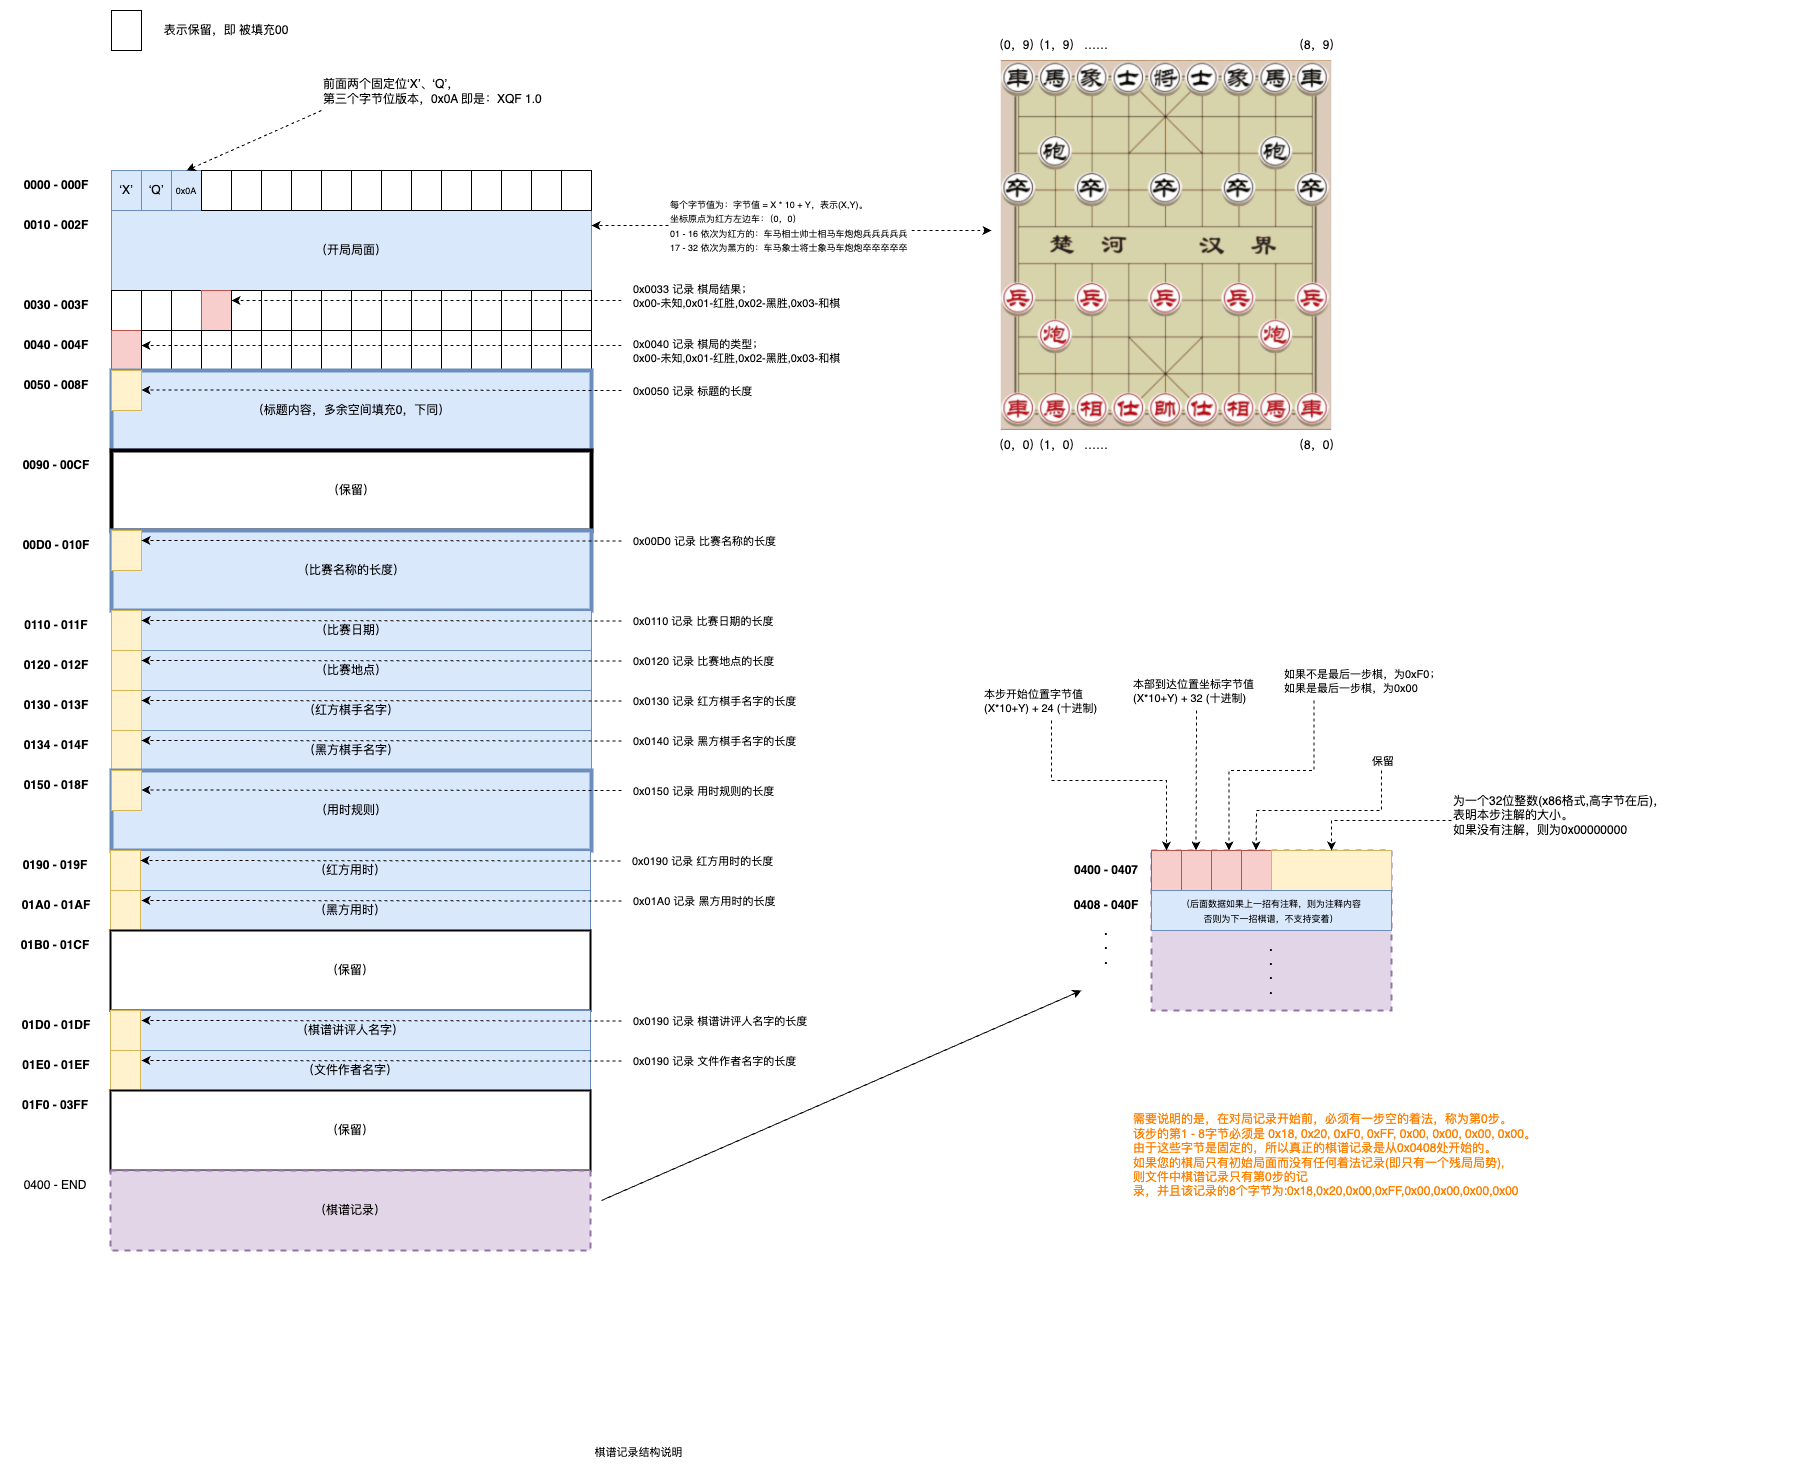
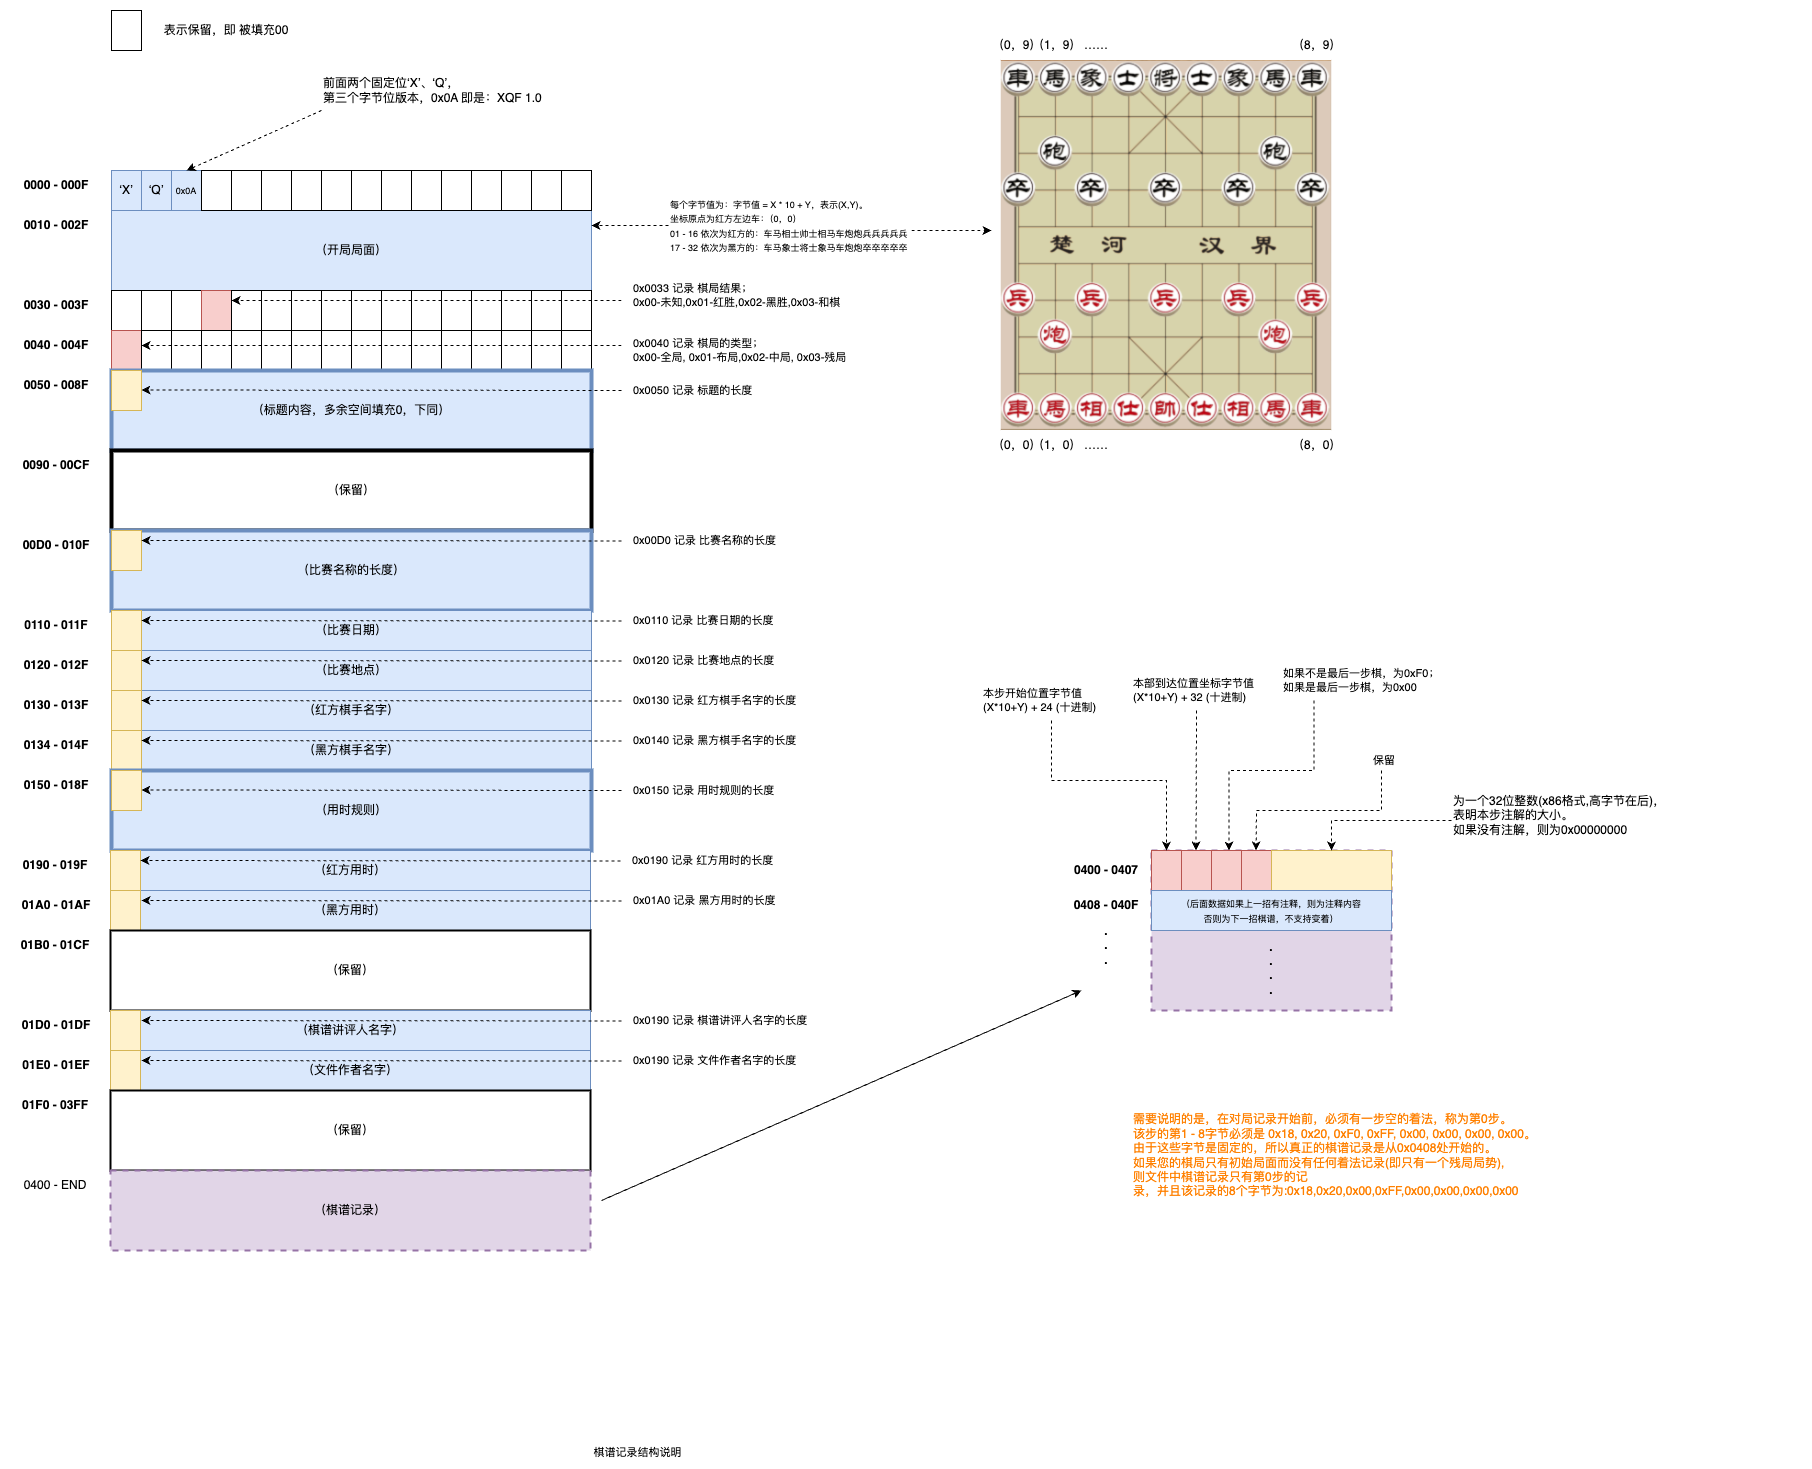
解析XQF

diff --git a/parser.py b/parser.py
@@ -1,0 +1,103 @@
+#-*- coding: UTF-8 -*-
+
+from data import *
+
+class Parser():
+    def __init__(self):
+        self.file = None
+
+class DPparser(Parser):
+    def __init__(self):
+        pass
+
+# 东萍棋谱读取器
+class DPReader(DPparser):
+    def __init__(self):
+        pass
+
+    def read(self, file_path, qipu):
+        self.file = open(file_path, 'rb')
+
+# 东萍棋谱写
+class DPWriter(DPparser):
+    def __init__(self):
+        pass
+
+    def write(self, file_path, qipu):
+        pass
+
+class XQFParser(Parser):
+    def __init__(self):
+        pass
+
+# XQF棋谱读取器
+class XQFReader(XQFParser):
+    def __init__(self):
+        pass
+
+    def read(self, file_path, qipu):
+        self.file = open(file_path, 'rb')
+
+        # 读取标记
+        self._readFlag()
+        # 版本
+        self._readVersion()
+        # 结果
+        self._readResult(qipu)
+        # 类型
+        self._readType(qipu)
+
+    def _readFlag(self):
+        # 标记 在0开始，
+        self.file.seek(0)
+
+        flag = self.file.read(2).decode('utf-8')  # 读取2个字节
+        print("flag:" + flag)
+        assert(flag == "XQ")
+
+    def _readVersion(self):
+        self.file.seek(2)
+        version = self.file.read(1)[0]
+
+        print("version:", version)
+
+        # 确保版本号是1.x，高版本不支持解析
+        assert((version - version % 10) == 10)
+
+    def _readResult(self, qipu):
+        self.file.seek(0x33)
+        result = self.file.read(1)[0]
+        addr = [RESULT_UNKNOWN, RESULT_WIN_RED, RESULT_WIN_BLACK, RESULT_PEACE]
+        qipu.result = addr[result]
+
+    def _readType(self, qipu):
+        self.file.seek(0x40)
+        _type = self.file.read(1)[0]
+        addr = [TYPE_FULL, TYPE_START, TYPE_MIDDLE, TYPE_END]
+        qipu.type = addr[_type]
+
+# XQF棋谱写
+class XQFWriter(XQFParser):
+    def __init__(self):
+        pass
+
+    def write(self, file_path, qipu):
+        pass
+
+def reader_from_path(file_path):
+    file_path = file_path.lower()
+    if file_path.endswith(".xqf"):
+        return XQFReader()
+    elif file_path.endswith(".ubb"):
+        return DPReader()
+
+    return None
+
+def writer_from_path(file_path):
+    file_path = file_path.lower()
+    if file_path.endswith(".xqf"):
+        return XQFWriter()
+    elif file_path.endswith(".ubb"):
+        return DPWriter()
+
+    return None

diff --git a/data.py b/data.py
@@ -1,0 +1,55 @@
+#-*- coding: UTF-8 -*-
+
+
+TYPE_FULL   = 0 # 全局
+TYPE_START  = 1 # 布局
+TYPE_MIDDLE = 2 # 中局
+TYPE_END    = 3 # 残局
+
+RESULT_UNKNOWN   = 0 # 未知
+RESULT_WIN_RED   = 1 # 红胜
+RESULT_WIN_BLACK = 2 # 黑胜
+RESULT_PEACE     = 3 # 和棋
+
+
+class QIPU():
+    def __init__(self):
+        # 记谱时间
+        self.adddate = ""
+        self.title = ""
+        self.type = TYPE_FULL
+        self.result = RESULT_UNKNOWN
+        self.timerule = ""   # 用时规则
+        self.redTime = ""    # 红方用时
+        self.blackTime = ""  # 红方用时
+        self.redName = ""    # 红方名字
+        self.blackName = ""  # 黑方名字
+
+        self.squares = []    # 16 x 16
+        self.comment = ""
+
+        self.move = None
+
+    def __str__(self):
+        result = "时间:%s\n" % self.adddate
+        result += "标题:%s\n" % self.title
+        result += "类型:%s\n" % {0:"全局",1:"布局",2:"中局",3:"残局"}.get(self.type, "")
+        result += "结果:%s\n" % {0:"未知",1:"红胜",2:"黑胜",3:"和棋"}.get(self.result, "")
+
+        return result
+
+class MOVE():
+    def __init__(self):
+        self.comment = ""
+
+        # 真正的移动，
+        self._move = 0
+
+        # 下一招
+        self.next = None
+
+        # 变招
+        self.brothers
+
+
+

diff --git a/main.py b/main.py
@@ -1,0 +1,36 @@
+#-*- coding: UTF-8 -*-
+
+import os
+import sys
+
+from parser import *
+from data import *
+
+def printUsage():
+    print("usage: python3 main.py xqf-file pgn-file")
+
+def parseParam():
+    argv = sys.argv
+    if len(argv) != 3:
+        printUsage()
+        exit(0)
+
+    inFile = argv[1]
+    outFile = argv[2]
+
+    return inFile, outFile
+
+
+def main():
+    inFile, outFile = parseParam()
+
+    qipu = QIPU()
+    reader_from_path(inFile).read(inFile, qipu)
+    print(qipu)
+    writer_from_path(outFile).write(outFile, qipu)
+
+
+    print("from:%s to :%s finish!" % (inFile, outFile))
+
+if __name__ == '__main__':
+    main()

diff --git a/README.md b/README.md
@@ -1,1 +1,3 @@
 # chessManualParser
+
+棋谱解析
